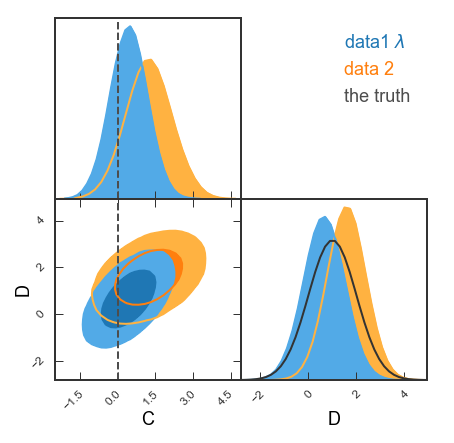
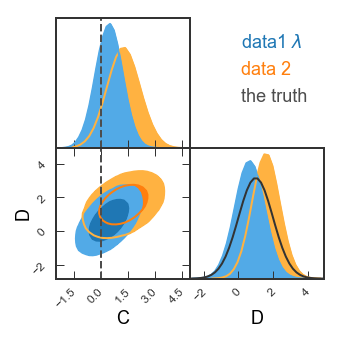
update to documentation notebooks

diff --git a/docs/demo.rst b/docs/demo.rst
@@ -5,7 +5,7 @@ Example 1: Making a GTC/triangle plot with pygtc
 Import dependencies
 -------------------
 
-.. code:: ipython3
+.. code:: ipython2
 
     %matplotlib inline
     %config InlineBackend.figure_format = 'retina' # For mac users with Retina display
@@ -19,7 +19,7 @@ Generate fake data
 Let's create two sets of fake sample points with 8 dimensions each. Note
 that chains are allowed to have different lengths.
 
-.. code:: ipython3
+.. code:: ipython2
 
     # Create Npoints samples from random multivariate, nDim-dimensional Gaussian
     def create_random_samples(nDim, Npoints):
@@ -43,30 +43,34 @@ Let's assume the samples1 does not include the second to last parameter.
 In the figure, we only want to show this parameter for samples2. pygtc
 will omit parameters that only contain nan.
 
-.. code:: ipython3
+.. code:: ipython2
 
     samples1[:,6] = None
 
 Minimal example
 ---------------
 
-.. code:: ipython3
+Note that numpy throws a ``RuntimeWarning`` because we set one of the
+axes of ``samples1`` to ``None`` just above. As we understand the
+warning, let's move on!
+
+.. code:: ipython2
 
     GTC = pygtc.plotGTC(chains=[samples1,samples2])
 
 
 .. parsed-literal::
 
-    /Users/fcarter/Documents/Code/Python/pygtc/pygtc/pygtc.py:558: RuntimeWarning: All-NaN axis encountered
+    pygtc/pygtc.py:558: RuntimeWarning: All-NaN axis encountered
       for k in range(nChains)]), axis=0)
-    /Users/fcarter/Documents/Code/Python/pygtc/pygtc/pygtc.py:560: RuntimeWarning: All-NaN slice encountered
+    pygtc/pygtc.py:560: RuntimeWarning: All-NaN slice encountered
       for k in range(nChains)]), axis=0)
 
 
 
 .. image:: _static/demo_files/demo_8_1.png
-   :width: 465px
-   :height: 454px
+   :width: 343px
+   :height: 335px
 
 
 Complete the figure
@@ -78,7 +82,7 @@ that could indicate Gaussian priors we assumed
 
 Note that all these must match number of parameters!
 
-.. code:: ipython3
+.. code:: ipython2
 
     # List of parameter names, supports latex
     # NOTE: For capital greek letters in latex mode, use \mathsf{}
@@ -125,18 +129,10 @@ Note that all these must match number of parameters!
                         priors=priors)
 
 
-.. parsed-literal::
 
-    /Users/fcarter/Documents/Code/Python/pygtc/pygtc/pygtc.py:558: RuntimeWarning: All-NaN axis encountered
-      for k in range(nChains)]), axis=0)
-    /Users/fcarter/Documents/Code/Python/pygtc/pygtc/pygtc.py:560: RuntimeWarning: All-NaN slice encountered
-      for k in range(nChains)]), axis=0)
-
-
-
-.. image:: _static/demo_files/demo_10_1.png
-   :width: 482px
-   :height: 464px
+.. image:: _static/demo_files/demo_10_0.png
+   :width: 362px
+   :height: 346px
 
 
 Make figure publication ready
@@ -153,7 +149,7 @@ Make figure publication ready
 -  Save the figure as ``fullGTC.pdf`` and paste it into your
    publication!
 
-.. code:: ipython3
+.. code:: ipython2
 
     # List of parameter ranges to show,
     # empty () or None to let pyGTC decide
@@ -178,18 +174,10 @@ Make figure publication ready
                         plotName='fullGTC.pdf')
 
 
-.. parsed-literal::
 
-    /Users/fcarter/Documents/Code/Python/pygtc/pygtc/pygtc.py:558: RuntimeWarning: All-NaN axis encountered
-      for k in range(nChains)]), axis=0)
-    /Users/fcarter/Documents/Code/Python/pygtc/pygtc/pygtc.py:560: RuntimeWarning: All-NaN slice encountered
-      for k in range(nChains)]), axis=0)
-
-
-
-.. image:: _static/demo_files/demo_12_1.png
-   :width: 439px
-   :height: 422px
+.. image:: _static/demo_files/demo_12_0.png
+   :width: 331px
+   :height: 316px
 
 
 Single 2d panel
@@ -198,7 +186,7 @@ Single 2d panel
 See how the covariance between C and D is a ground-breaking result?
 Let's look in more detail! Here, we'll want single-column figures.
 
-.. code:: ipython3
+.. code:: ipython2
 
     # Redefine priors and truths
     priors2d = (None,(1,1))
@@ -229,14 +217,14 @@ Let's look in more detail! Here, we'll want single-column figures.
 
 
 .. image:: _static/demo_files/demo_14_0.png
-   :width: 227px
-   :height: 221px
+   :width: 177px
+   :height: 171px
 
 
 
 .. image:: _static/demo_files/demo_14_1.png
-   :width: 232px
-   :height: 222px
+   :width: 181px
+   :height: 172px
 
 
 Single 1d panel
@@ -244,7 +232,7 @@ Single 1d panel
 
 Finally, let's just plot the posterior on C
 
-.. code:: ipython3
+.. code:: ipython2
 
     # Bit tricky, but remember each data set needs shape of (Npoints, nDim)
     inputarr = [np.array([samples1[:,4]]).T,
@@ -261,7 +249,7 @@ Finally, let's just plot the posterior on C
 
 
 .. image:: _static/demo_files/demo_16_0.png
-   :width: 202px
-   :height: 225px
+   :width: 150px
+   :height: 174px
 
 

diff --git a/docs/Planck-vs-WMAP.rst b/docs/Planck-vs-WMAP.rst
@@ -13,7 +13,7 @@ to download (3.6 GB)!
 Extract everything into a directory, cd into that directory, and run
 this notebook.
 
-.. code:: ipython3
+.. code:: ipython2
 
     %matplotlib inline
     %config InlineBackend.figure_format = 'retina' # For mac users with Retina display
@@ -25,14 +25,14 @@ this notebook.
 Read in and format the data
 ---------------------------
 
-.. code:: ipython3
+.. code:: ipython2
 
     WMAP, Planck = [],[]
     for i in range(1,5):
         WMAP.append(np.loadtxt('./base/WMAP/base_WMAP_'+str(i)+'.txt'))
         Planck.append(np.loadtxt('./base/plikHM_TT_lowTEB/base_plikHM_TT_lowTEB_'+str(i)+'.txt'))
 
-.. code:: ipython3
+.. code:: ipython2
 
     # Copy all four chains into a single array
     WMAPall = np.concatenate((WMAP[0],WMAP[1],WMAP[2],WMAP[3]))
@@ -44,12 +44,12 @@ Select the parameters and make labels
 In the chain directories, there are ``.paramnames`` files that allow you
 to find the parameters you are interested in.
 
-.. code:: ipython3
+.. code:: ipython2
 
     WMAPplot = WMAPall[:,[2,3,4,5,6,7,9,15]]
     Planckplot = Planckall[:,[2,3,4,5,6,7,23,29]]
 
-.. code:: ipython3
+.. code:: ipython2
 
     # Labels, pyGTC supports Tex enclosed in $..$
     params = ('$\Omega_\mathrm{b}h^2$',
@@ -67,7 +67,7 @@ Make the GTC!
 
 Produce the plot and save it as ``Planck-vs-WMAP.pdf``.
 
-.. code:: ipython3
+.. code:: ipython2
 
     GTC = pygtc.plotGTC(chains=[Planckplot,WMAPplot],
                         weights=[Planckall[:,0],
@@ -81,6 +81,7 @@ Produce the plot and save it as ``Planck-vs-WMAP.pdf``.
 
 
 .. image:: _static/Planck-vs-WMAP_files/Planck-vs-WMAP_10_0.png
-   :width: 414px
-   :height: 409px
+   :width: 340px
+   :height: 325px
+
 

diff --git a/docs/index.rst b/docs/index.rst
@@ -27,7 +27,7 @@ publication-ready on the first try!
 
 Here's an example of a GTC (generated from Planck and WMAP data):
 
-.. image:: _static/demo2_files/demo2_9_0.png
+.. image:: _static/Planck-vs-WMAP_files/Planck-vs-WMAP_10_0.png
 
 **Note about contour levels**
 In the above example, you see two sets of contour levels at 68% and
